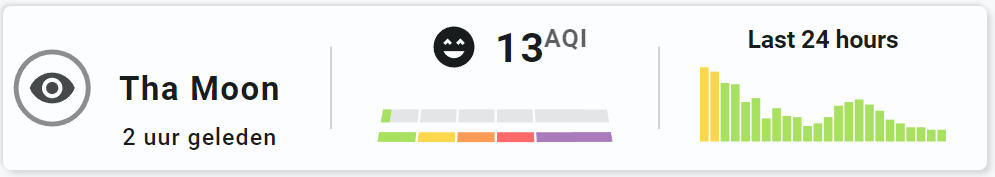
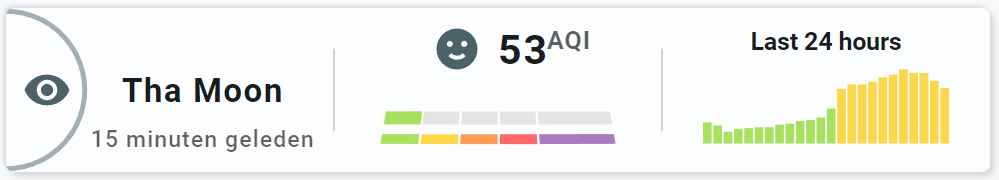
Deployed 3454aeb with MkDocs version: 1.3.0

diff --git a/design/functional-card-full-width-server-statistics-sensor/index.html b/design/functional-card-full-width-server-statistics-sensor/index.html
@@ -269,7 +269,7 @@ It is a composite tool with a built-in animation to move the thumb to 'off' or '
   
   
 
- Description"> <ul class=md-nav__list> <li class=md-nav__item> <a href=#card class=md-nav__link> Card: </a> </li> </ul> </nav> </li> <li class=md-nav__item> <a href=#yaml-definition class=md-nav__link> YAML Definition </a> </li> <li class=md-nav__item> <a href=#usage class=md-nav__link> Usage </a> </li> </ul> </nav> </div> </div> </div> <div class=md-content data-md-component=content> <article class="md-content__inner md-typeset"> <nav class=md-tags> <span class=md-tag>Design</span> <span class=md-tag>Functional Card</span> </nav> <h1>Server Statistics</h1> <p><img alt="Swiss Army Knife Functional Card Server Statistics D06 Light" src=../../assets/screenshots/sak-functional-card-12-full-width-server-statistics-theme-d06-light.png></p> <!-- GT/GL --> <h2 id=description><span class=twemoji><?xml version="1.0" encoding="iso-8859-1"?> <!-- Generator: Adobe Illustrator 19.0.0, SVG Export Plug-In . SVG Version: 6.00 Build 0)  --> <svg version=1.1 xmlns=http://www.w3.org/2000/svg xmlns:xlink=http://www.w3.org/1999/xlink width=512 height=512 fill=white class="sak sak-logo" viewbox="0 0 512 512" xml:space=preserve> <path d="M493.311,354.483L366.258,108.851V102.4c0-56.465-45.935-102.4-102.4-102.4s-102.4,45.935-102.4,102.4v161.263
+ Description"> <ul class=md-nav__list> <li class=md-nav__item> <a href=#card class=md-nav__link> Card: </a> </li> </ul> </nav> </li> <li class=md-nav__item> <a href=#yaml-definition class=md-nav__link> YAML Definition </a> </li> <li class=md-nav__item> <a href=#usage class=md-nav__link> Usage </a> </li> </ul> </nav> </div> </div> </div> <div class=md-content data-md-component=content> <article class="md-content__inner md-typeset"> <nav class=md-tags> <span class=md-tag>Design</span> <span class=md-tag>Functional Card</span> </nav> <h1>Server Statistics</h1> <p><img alt="Swiss Army Knife Functional Card Server Statistics D06 Light" src=../../assets/screenshots/sak-functional-card-12-full-width-server-statistics-theme-d06-light.png> <img alt="Swiss Army Knife Functional Card Server Statistics D06 Dark" src=../../assets/screenshots/sak-functional-card-12-full-width-server-statistics-theme-d06-dark.png></p> <!-- GT/GL --> <h2 id=description><span class=twemoji><?xml version="1.0" encoding="iso-8859-1"?> <!-- Generator: Adobe Illustrator 19.0.0, SVG Export Plug-In . SVG Version: 6.00 Build 0)  --> <svg version=1.1 xmlns=http://www.w3.org/2000/svg xmlns:xlink=http://www.w3.org/1999/xlink width=512 height=512 fill=white class="sak sak-logo" viewbox="0 0 512 512" xml:space=preserve> <path d="M493.311,354.483L366.258,108.851V102.4c0-56.465-45.935-102.4-102.4-102.4s-102.4,45.935-102.4,102.4v161.263
     l-18.261-1.783l5.564-23.748c1.075-4.591-1.775-9.182-6.366-10.257l-25.182-5.888l6.537-26.812
     c0.905-3.695-0.759-7.535-4.062-9.429c-27.016-15.445-57.745-23.612-88.875-23.612h-4.54c-3.072,0-5.914,1.664-7.424,4.335
     c-1.519,2.679-1.476,5.956,0.119,8.602l142.618,237.116C162.977,467.447,208.263,512,263.858,512

diff --git a/design/functional-card-full-width-environment-sensor/index.html b/design/functional-card-full-width-environment-sensor/index.html
@@ -269,7 +269,7 @@ It is a composite tool with a built-in animation to move the thumb to 'off' or '
   
   
 
- Description"> <ul class=md-nav__list> <li class=md-nav__item> <a href=#card class=md-nav__link> Card: </a> </li> </ul> </nav> </li> <li class=md-nav__item> <a href=#yaml-definition class=md-nav__link> YAML Definition </a> </li> </ul> </nav> </div> </div> </div> <div class=md-content data-md-component=content> <article class="md-content__inner md-typeset"> <nav class=md-tags> <span class=md-tag>Design</span> <span class=md-tag>Functional Card</span> </nav> <h1>Environment sensors</h1> <p><img alt="Swiss Army Knife Functional Card AQI Sensor D06 Light" src=../../assets/screenshots/sak-functional-card-12-full-width-environment-sensor-theme-d06-light.png></p> <!-- GT/GL --> <h2 id=description><span class=twemoji><?xml version="1.0" encoding="iso-8859-1"?> <!-- Generator: Adobe Illustrator 19.0.0, SVG Export Plug-In . SVG Version: 6.00 Build 0)  --> <svg version=1.1 xmlns=http://www.w3.org/2000/svg xmlns:xlink=http://www.w3.org/1999/xlink width=512 height=512 fill=white class="sak sak-logo" viewbox="0 0 512 512" xml:space=preserve> <path d="M493.311,354.483L366.258,108.851V102.4c0-56.465-45.935-102.4-102.4-102.4s-102.4,45.935-102.4,102.4v161.263
+ Description"> <ul class=md-nav__list> <li class=md-nav__item> <a href=#card class=md-nav__link> Card: </a> </li> </ul> </nav> </li> <li class=md-nav__item> <a href=#yaml-definition class=md-nav__link> YAML Definition </a> </li> </ul> </nav> </div> </div> </div> <div class=md-content data-md-component=content> <article class="md-content__inner md-typeset"> <nav class=md-tags> <span class=md-tag>Design</span> <span class=md-tag>Functional Card</span> </nav> <h1>Environment sensors</h1> <p><img alt="Swiss Army Knife Functional Card Environment Sensor D06 Light" src=../../assets/screenshots/sak-functional-card-12-full-width-environment-sensor-theme-d06-light.png> <img alt="Swiss Army Knife Functional Card Environment Sensor D06 Dark" src=../../assets/screenshots/sak-functional-card-12-full-width-environment-sensor-theme-d06-dark.png></p> <!-- GT/GL --> <h2 id=description><span class=twemoji><?xml version="1.0" encoding="iso-8859-1"?> <!-- Generator: Adobe Illustrator 19.0.0, SVG Export Plug-In . SVG Version: 6.00 Build 0)  --> <svg version=1.1 xmlns=http://www.w3.org/2000/svg xmlns:xlink=http://www.w3.org/1999/xlink width=512 height=512 fill=white class="sak sak-logo" viewbox="0 0 512 512" xml:space=preserve> <path d="M493.311,354.483L366.258,108.851V102.4c0-56.465-45.935-102.4-102.4-102.4s-102.4,45.935-102.4,102.4v161.263
     l-18.261-1.783l5.564-23.748c1.075-4.591-1.775-9.182-6.366-10.257l-25.182-5.888l6.537-26.812
     c0.905-3.695-0.759-7.535-4.062-9.429c-27.016-15.445-57.745-23.612-88.875-23.612h-4.54c-3.072,0-5.914,1.664-7.424,4.335
     c-1.519,2.679-1.476,5.956,0.119,8.602l142.618,237.116C162.977,467.447,208.263,512,263.858,512

diff --git a/design/functional-card-full-width-airvisual/index.html b/design/functional-card-full-width-airvisual/index.html
@@ -269,7 +269,7 @@ It is a composite tool with a built-in animation to move the thumb to 'off' or '
   
   
 
- Description"> <ul class=md-nav__list> <li class=md-nav__item> <a href=#card class=md-nav__link> Card: </a> </li> </ul> </nav> </li> <li class=md-nav__item> <a href=#yaml-definition class=md-nav__link> YAML Definition </a> </li> </ul> </nav> </div> </div> </div> <div class=md-content data-md-component=content> <article class="md-content__inner md-typeset"> <nav class=md-tags> <span class=md-tag>Design</span> <span class=md-tag>Functional Card</span> </nav> <h1>Airvisual sensors</h1> <!-- GT/GL --> <p><img alt="Swiss Army Knife Functional Card AirVisual D06 Light" src=../../assets/screenshots/sak-functional-card-12-full-width-airvisual-theme-d06-light.png></p> <h2 id=description><span class=twemoji><?xml version="1.0" encoding="iso-8859-1"?> <!-- Generator: Adobe Illustrator 19.0.0, SVG Export Plug-In . SVG Version: 6.00 Build 0)  --> <svg version=1.1 xmlns=http://www.w3.org/2000/svg xmlns:xlink=http://www.w3.org/1999/xlink width=512 height=512 fill=white class="sak sak-logo" viewbox="0 0 512 512" xml:space=preserve> <path d="M493.311,354.483L366.258,108.851V102.4c0-56.465-45.935-102.4-102.4-102.4s-102.4,45.935-102.4,102.4v161.263
+ Description"> <ul class=md-nav__list> <li class=md-nav__item> <a href=#card class=md-nav__link> Card: </a> </li> </ul> </nav> </li> <li class=md-nav__item> <a href=#yaml-definition class=md-nav__link> YAML Definition </a> </li> </ul> </nav> </div> </div> </div> <div class=md-content data-md-component=content> <article class="md-content__inner md-typeset"> <nav class=md-tags> <span class=md-tag>Design</span> <span class=md-tag>Functional Card</span> </nav> <h1>Airvisual sensors</h1> <!-- GT/GL --> <p><img alt="Swiss Army Knife Functional Card AirVisual D06 Light" src=../../assets/screenshots/sak-functional-card-12-full-width-airvisual-theme-d06-light.png> <img alt="Swiss Army Knife Functional Card AirVisual D06 Dark" src=../../assets/screenshots/sak-functional-card-12-full-width-airvisual-theme-d06-dark.png></p> <h2 id=description><span class=twemoji><?xml version="1.0" encoding="iso-8859-1"?> <!-- Generator: Adobe Illustrator 19.0.0, SVG Export Plug-In . SVG Version: 6.00 Build 0)  --> <svg version=1.1 xmlns=http://www.w3.org/2000/svg xmlns:xlink=http://www.w3.org/1999/xlink width=512 height=512 fill=white class="sak sak-logo" viewbox="0 0 512 512" xml:space=preserve> <path d="M493.311,354.483L366.258,108.851V102.4c0-56.465-45.935-102.4-102.4-102.4s-102.4,45.935-102.4,102.4v161.263
     l-18.261-1.783l5.564-23.748c1.075-4.591-1.775-9.182-6.366-10.257l-25.182-5.888l6.537-26.812
     c0.905-3.695-0.759-7.535-4.062-9.429c-27.016-15.445-57.745-23.612-88.875-23.612h-4.54c-3.072,0-5.914,1.664-7.424,4.335
     c-1.519,2.679-1.476,5.956,0.119,8.602l142.618,237.116C162.977,467.447,208.263,512,263.858,512
